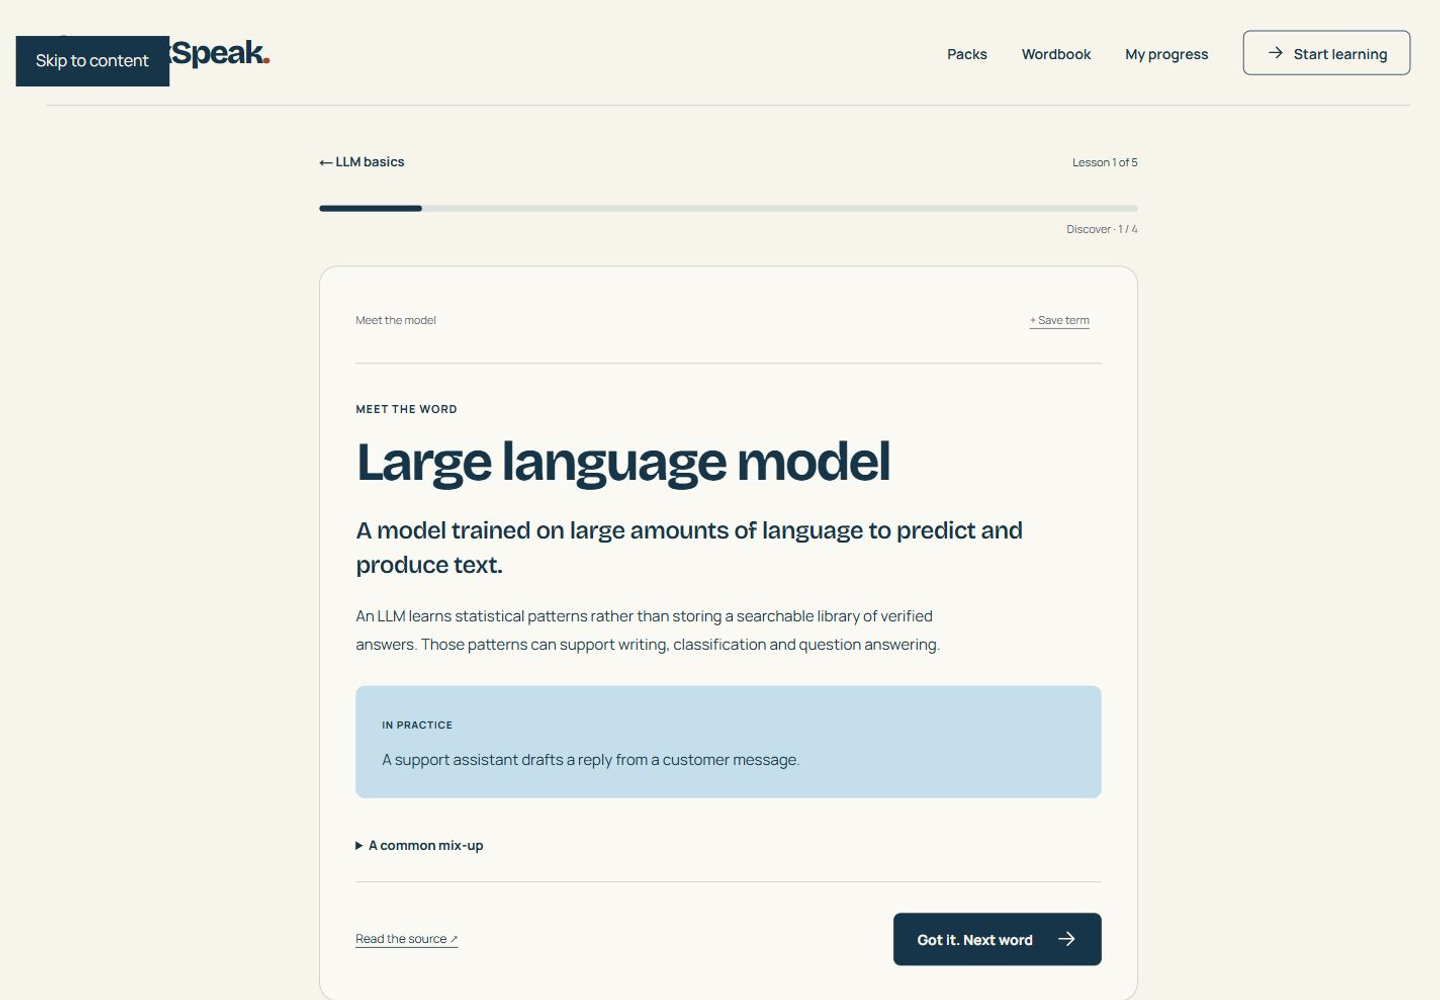
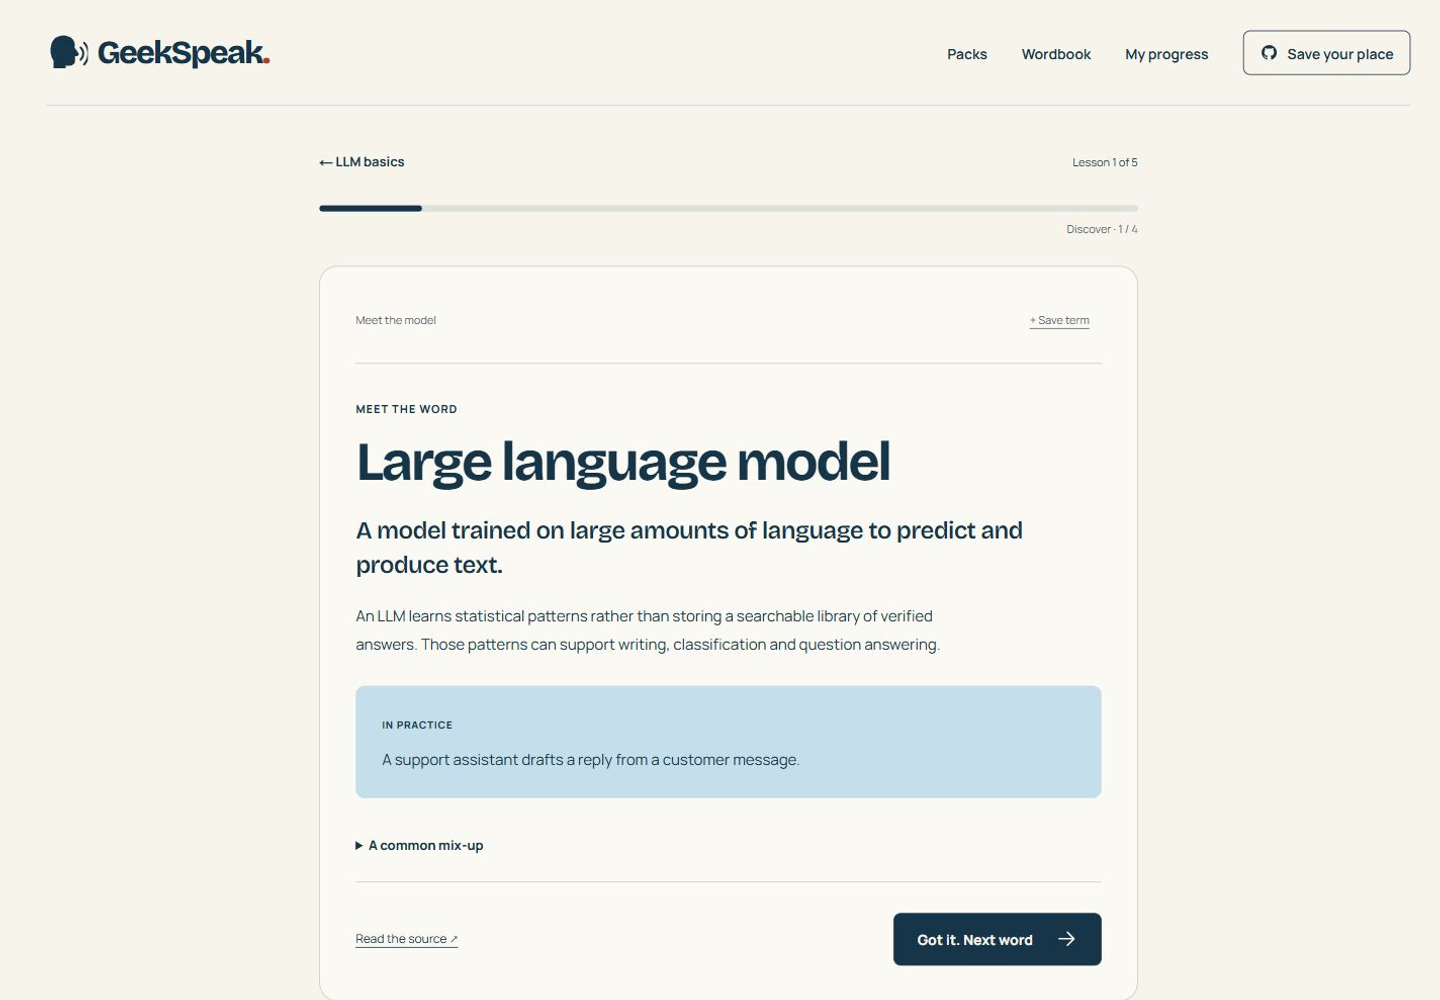
Clean up the README lesson screenshot and remove its caption

Changed region(s): [[0.0, 0.031, 0.125, 0.093], [0.875, 0.031, 0.9688, 0.062]]

diff --git a/README.md b/README.md
@@ -40,8 +40,6 @@ GeekSpeak runs on Vercel with a dedicated Neon database. GitHub sign-in is enabl
   </tr>
 </table>
 
-Screenshots show the working website with local guest progress. Select either preview to view the full page.
-
 ## Features
 
 |                                | What you can do                                                                                                                                 |
